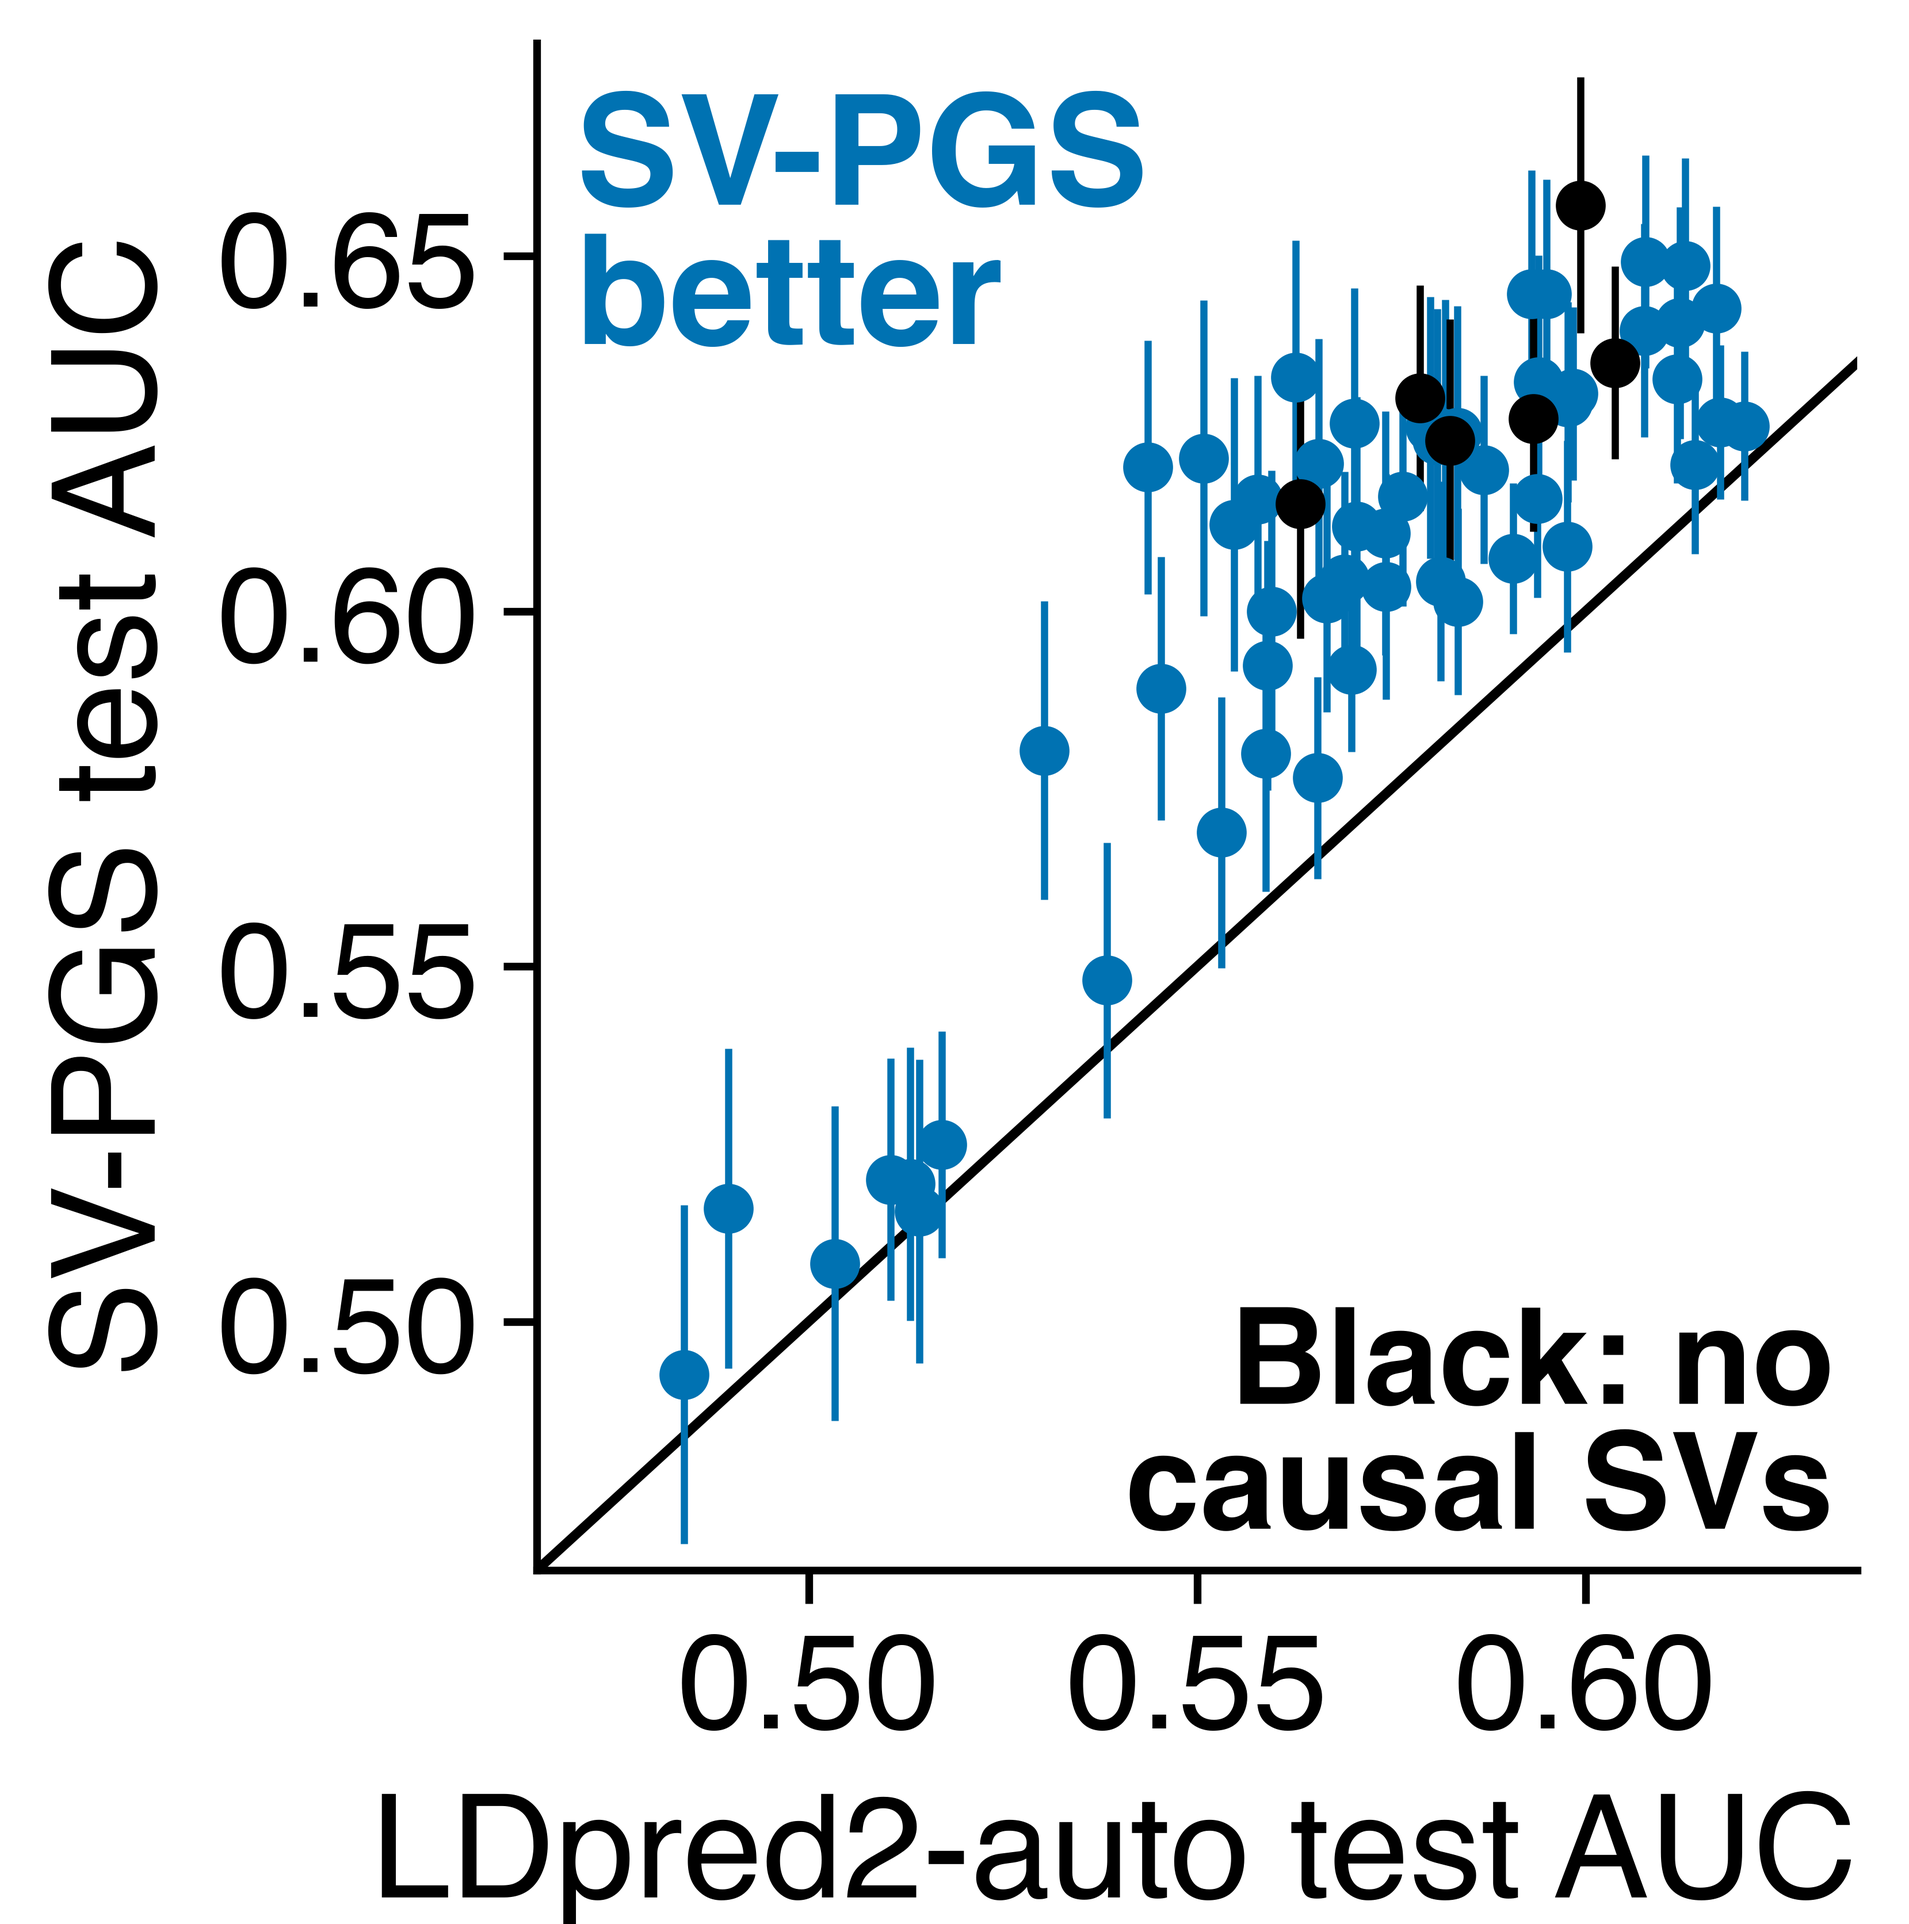
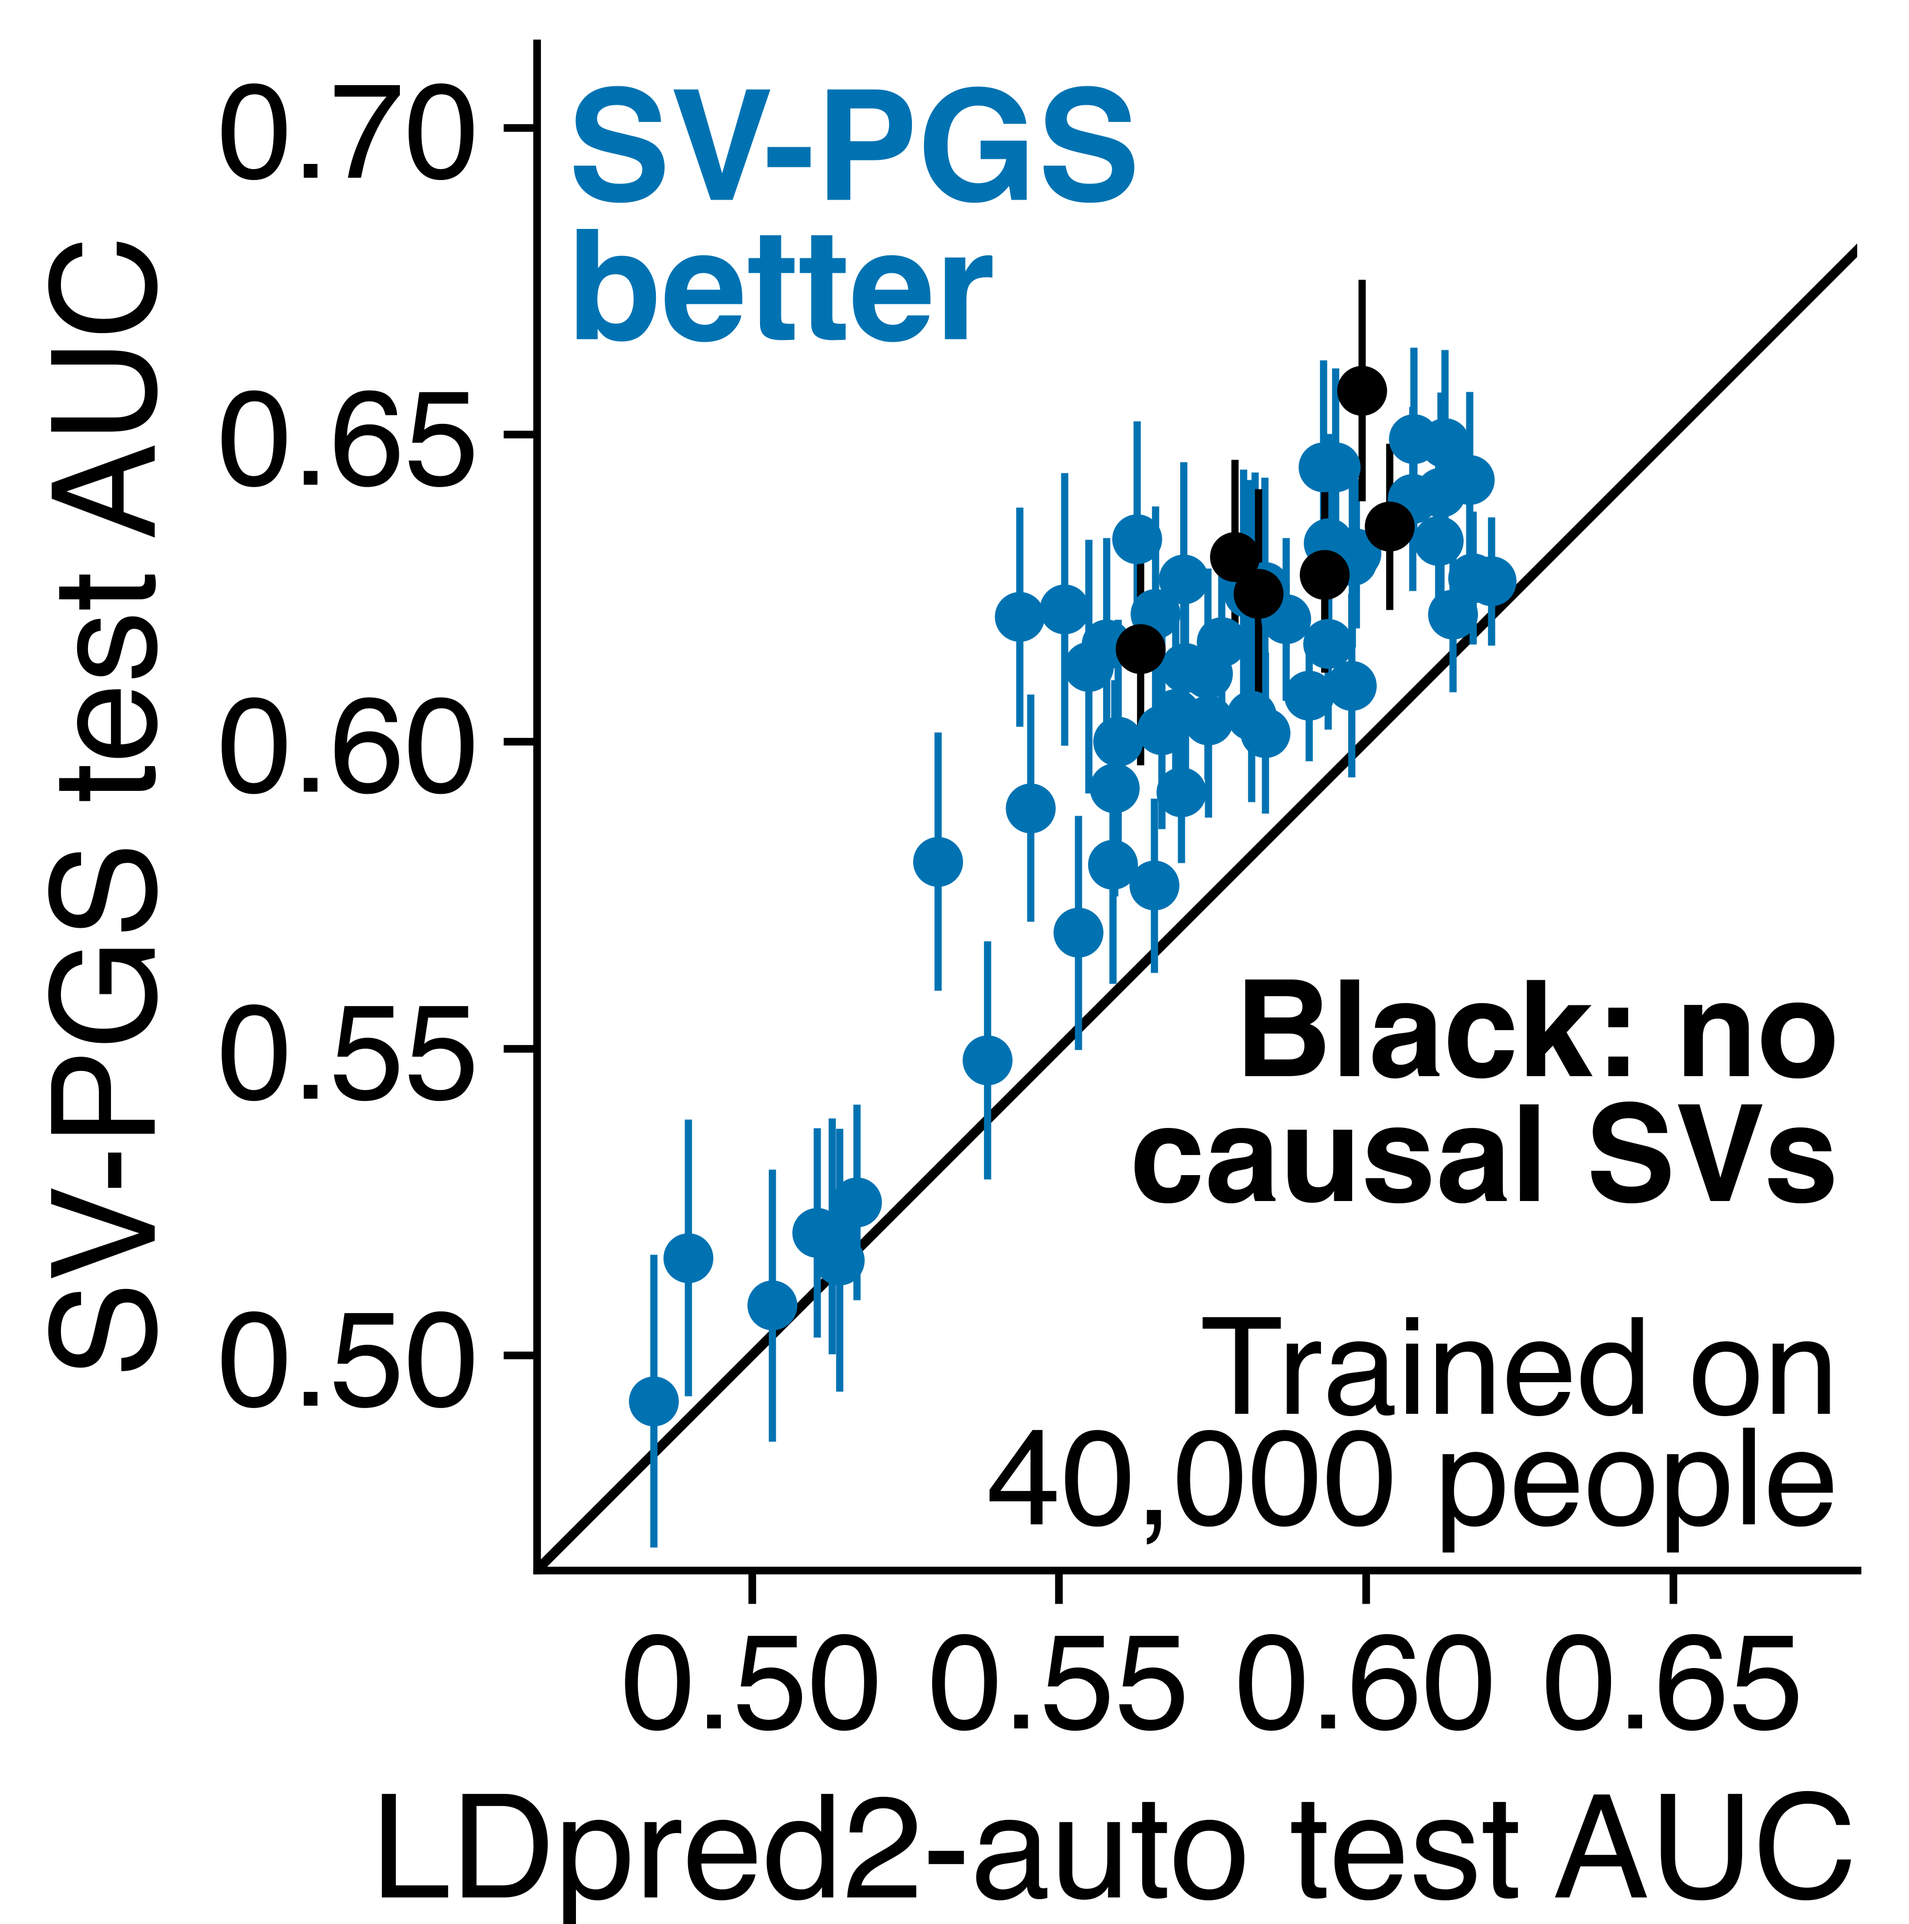
The scatter of test AUCs has one scale on both axes, so the line of equal AUC runs at 45 degrees, and the accuracy figure shows its 95% intervals as error bars (docs/poster/ashg2026/sim_gallery.py). The scatter's x axis covered about 0.17 AUC over 7.7 in and its y axis 0.215 over 5.3 in. That put th

diff --git a/docs/poster/ashg2026/sim_gallery.py b/docs/poster/ashg2026/sim_gallery.py
@@ -818,16 +818,16 @@ POSTER_STYLE = {
 
 def poster_accuracy_figure(grids, summary):
     """Figure 1a for the poster: test AUC against training size for SV-PGS and LDpred2-auto, pooled over 0%, 5% and 20%
-    causal SVs, each method named beside its line and its AUC at the largest size written after its last mark, under
-    the AUC of the true genetic value."""
+    causal SVs, each mean with its 95% interval as an error bar and each method named beside its line, under the AUC of
+    the true genetic value."""
     grouped = cells(grids["grid"])
     fig = plt.figure(figsize=(POSTER_HALF, POSTER_HEIGHT))
-    # the right margin holds each line's last AUC, in bold at tick size; the left one the ticks and the axis title
-    ends = widest(fig, ["0.000"], fontsize=POSTER_TYPE, fontweight="bold")
-    top, bottom, left, right = 0.25, 2.05, widest(fig, ["0.00"], fontsize=POSTER_TYPE) + 1.45, 0.3 + ends
+    # the left margin holds the ticks and the axis title
+    top, bottom, left, right = 0.25, 2.05, widest(fig, ["0.00"], fontsize=POSTER_TYPE) + 1.45, 0.3
     ax = frame(fig, left, bottom, POSTER_HALF - left - right, POSTER_HEIGHT - top - bottom)
     log_size_axis(ax)
-    ax.set_xlabel("Training size (thousands)")
+    # the title runs longer than the axis, so it ends at the axis's far end
+    ax.set_xlabel("Training size (thousands)", loc="right")
     ceiling = summary["points"]["null"]["true_value_auc"]
     ax.axhline(ceiling, color=INK, linestyle=(0, (1, 1.2)), linewidth=4.0, zorder=1)
     # named over its line, so the room under it is SV-PGS's
@@ -838,14 +838,14 @@ def poster_accuracy_figure(grids, summary):
                   for size in SIZES]
         mean, low, high = (np.array([cell[i] for cell in pooled]) for i in range(3))
         upper[method] = high
-        ax.fill_between(SIZES, low, high, color=color, alpha=0.2, linewidth=0, zorder=2)
-        ax.plot(SIZES, mean, color=color, zorder=3, marker="o", markeredgewidth=0)
-        ax.text(SIZES[-1] * 1.15, mean[-1], f"{mean[-1]:.3f}", color=color, fontweight="bold", ha="left", va="center")
-    # each method's name on the empty side of its own line: SV-PGS over its left half, clear of its band at 20,000;
-    # LDpred2-auto, wider than the axes, under its right half and on into the right margin
+        # marks smaller than the poster's usual, so each interval shows past its mark
+        ax.errorbar(SIZES, mean, yerr=(mean - low, high - mean), color=color, elinewidth=POSTER_BAR, capsize=0,
+                    marker="o", markersize=POSTER_MARK * 0.7, markeredgewidth=0, zorder=3)
+    # each method's name on the empty side of its own line: SV-PGS over its left half, clear of its bar at 20,000;
+    # LDpred2-auto under its right half
     ax.text(SIZES[0] / 1.2, upper["SV-PGS"][2] + 0.006, "SV-PGS", color=SV_PGS, fontsize=POSTER_NAME,
             fontweight="bold", ha="left", va="bottom")
-    ax.text(1, 0.496, "LDpred2-auto", transform=shifted(ax, right - 0.1), color=LDPRED2, fontsize=POSTER_NAME,
+    ax.text(1, 0.496, "LDpred2-auto", transform=shifted(ax, 0.0), color=LDPRED2, fontsize=POSTER_NAME,
             fontweight="bold", ha="right", va="bottom")
     ax.set_ylim(0.49, ceiling + 0.03)
     ax.set_yticks(np.arange(0.5, 0.651, 0.05), ["0.50", "0.55", "0.60", "0.65"])
@@ -876,25 +876,35 @@ def poster_wins_figure(grids):
                               "gain": interval(gain), "null_gain": interval(gain[null]), "window_gain": interval(window)}
     fig = plt.figure(figsize=(POSTER_HALF, POSTER_HEIGHT))
     ticks = widest(fig, ["0.00"], fontsize=POSTER_TYPE)
-    top, bottom, left, right = 0.25, 2.05, ticks + 1.6, 0.3
-    ax = frame(fig, left, bottom, POSTER_HALF - left - right, POSTER_HEIGHT - top - bottom)
-    limits = (0.465, 0.68)
-    ax.axline((limits[0], limits[0]), slope=1, color=INK, linewidth=4.0, zorder=1)
+    top, bottom, left = 0.25, 2.05, ticks + 1.6
+    width, height = POSTER_HALF - left - 0.3, POSTER_HEIGHT - top - bottom
+    ax = frame(fig, left, bottom, width, height)
+    # one scale on both axes, so the line of equal AUC runs at 45 degrees: 0.465 to 0.68 along the shorter axis, and
+    # the longer one runs on at the same scale
+    low = 0.465
+    scale = (0.68 - low) / min(width, height)
+    right, upper = low + scale * width, low + scale * height
+    ax.axline((low, low), slope=1, color=INK, linewidth=4.0, zorder=1)
     for chosen, color in ((~null, SV_PGS), (null, INK)):
         ax.vlines(theirs[chosen], ours[chosen] - half[chosen], ours[chosen] + half[chosen], color=color,
                   linewidth=POSTER_BAR * 0.5, zorder=2)
         ax.plot(theirs[chosen], ours[chosen], "o", markersize=POSTER_MARK * 0.8, color=color, markeredgewidth=0,
                 linestyle="none", zorder=3)
-    ax.set_xlim(limits[0], 0.635)
-    ax.set_ylim(*limits)
-    ax.set_xticks([0.5, 0.55, 0.6], ["0.50", "0.55", "0.60"])
-    ax.set_yticks([0.5, 0.55, 0.6, 0.65], ["0.50", "0.55", "0.60", "0.65"])
+    ax.set_xlim(low, right)
+    ax.set_ylim(low, upper)
+    ax.set_aspect("equal")
+    for axis, end in ((ax.xaxis, right), (ax.yaxis, upper)):
+        levels = np.arange(0.5, end, 0.05)
+        axis.set_ticks(levels, [plain(level) for level in levels])
     # the x axis's title runs longer than its axis, so it ends at the axis's far end
     ax.set_xlabel("LDpred2-auto test AUC", loc="right")
     ax.set_ylabel("SV-PGS test AUC")
-    ax.text(limits[0] + 0.005, limits[1] - 0.005, "SV-PGS\nbetter", color=SV_PGS, fontsize=POSTER_NAME, fontweight="bold", ha="left", va="top",
+    ax.text(low + 0.005, upper - 0.005, "SV-PGS\nbetter", color=SV_PGS, fontsize=POSTER_NAME, fontweight="bold", ha="left", va="top",
             linespacing=1.0)
-    ax.text(0.632, limits[0] + 0.004, "Black: no\ncausal SVs", color=INK, fontweight="bold", ha="right", va="bottom",
+    # under the line, where no dot falls: the training size at the foot, the key to the black dots over it
+    ax.text(right - 0.003, low + 0.003, f"Trained on\n{size:,} people", color=INK, ha="right", va="bottom",
+            linespacing=1.0)
+    ax.text(right - 0.003, low + 0.058, "Black: no\ncausal SVs", color=INK, fontweight="bold", ha="right", va="bottom",
             linespacing=1.0)
     return fig
 
